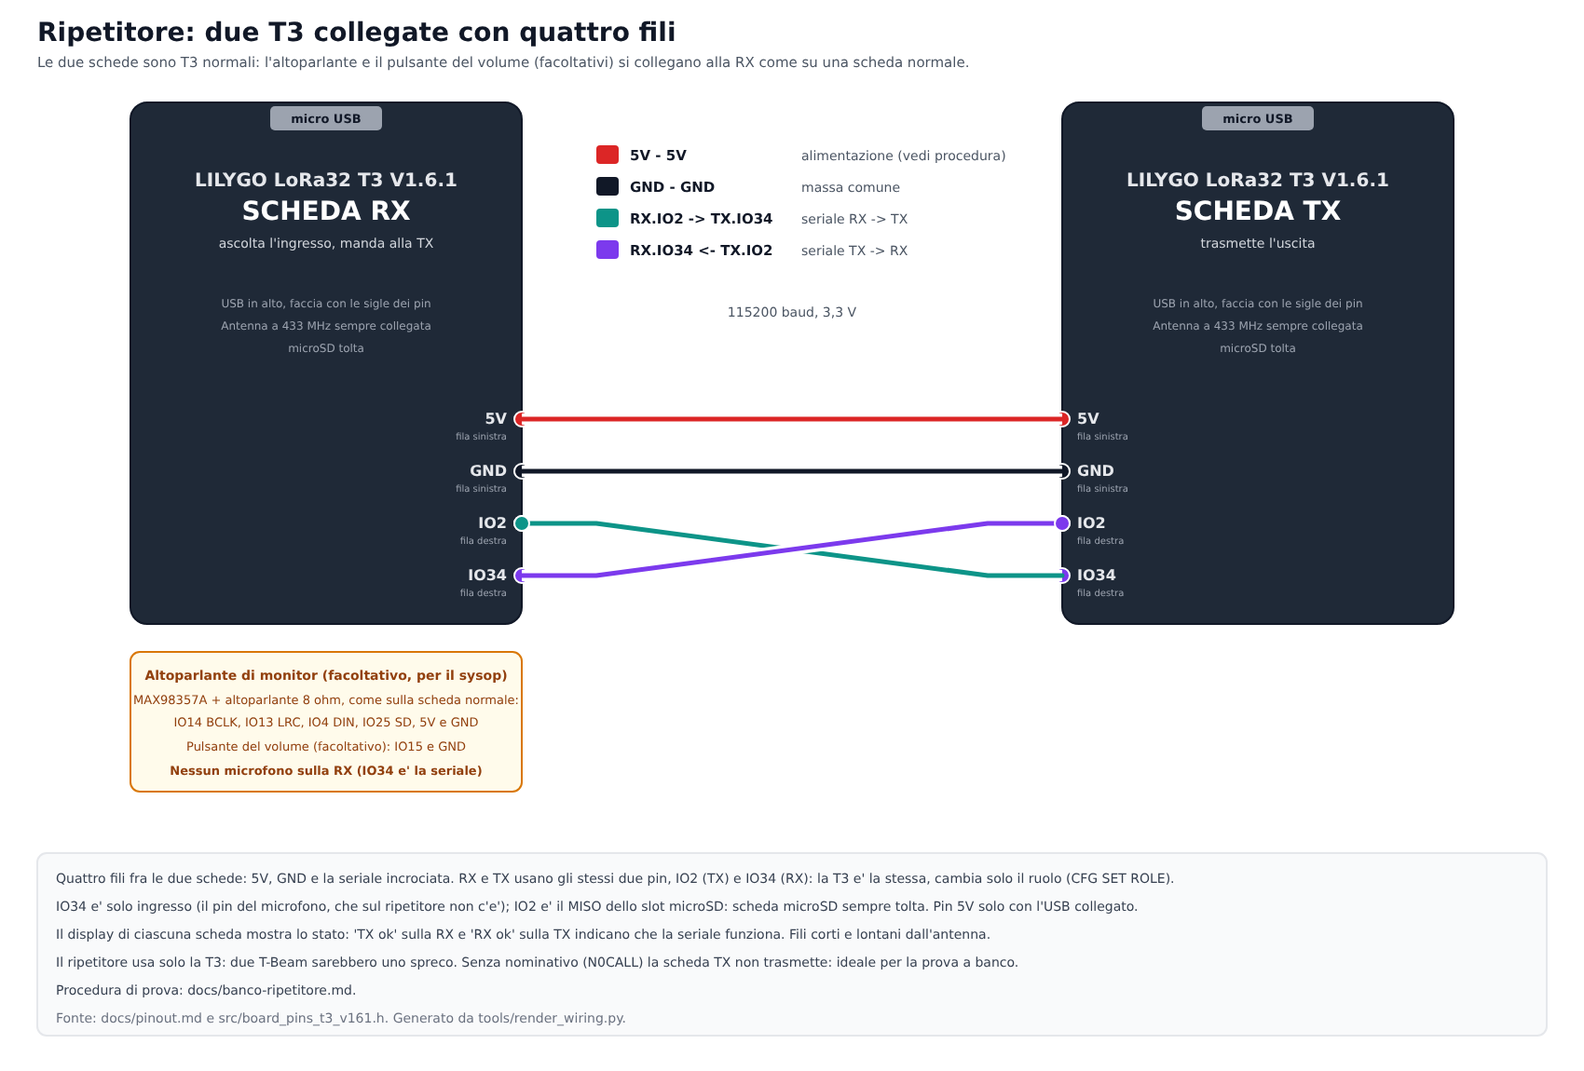
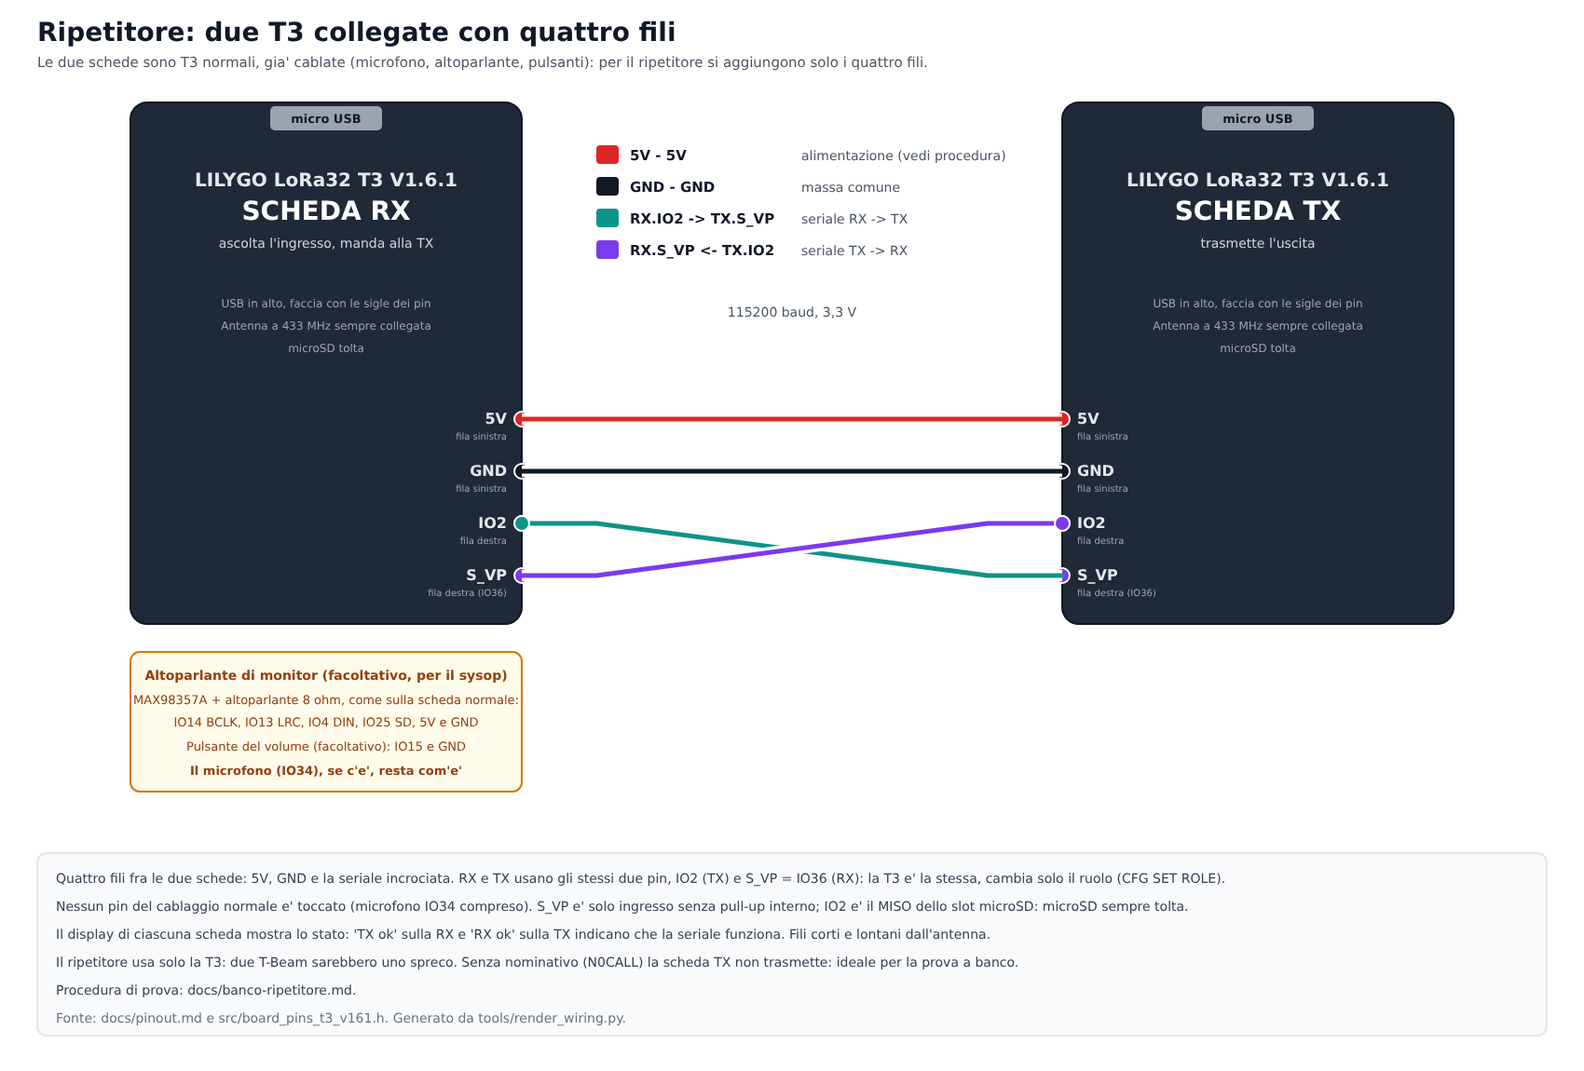
Ripetitore: seriale su S_VP (IO36) e IO2, nessun pin del cablaggio normale condiviso (microfono su IO34 incluso)
Claude-Session: https://claude.ai/code/session_01XeozYwmYoAwuvXXpMrm81B

diff --git a/tools/render_wiring.py b/tools/render_wiring.py
@@ -373,7 +373,7 @@ def draw_ripetitore():
     global els
     els = []
     header("Ripetitore: due T3 collegate con quattro fili",
-           "Le due schede sono T3 normali: l'altoparlante e il pulsante del volume (facoltativi) si collegano alla RX come su una scheda normale.")
+           "Le due schede sono T3 normali, gia' cablate (microfono, altoparlante, pulsanti): per il ripetitore si aggiungono solo i quattro fili.")
 
     def board(x0, title, role):
         rect(x0, 110, 420, 560, "#1f2937", "#111827", rx=18)
@@ -391,9 +391,9 @@ def draw_ripetitore():
     board(TX0, "SCHEDA TX", "trasmette l'uscita")
 
     # pin usati: i punti si disegnano sul bordo rivolto verso l'altra scheda; sulla scheda vera stanno sulle due file del connettore
-    rows = {"5V": 450, "GND": 506, "IO2": 562, "IO34": 618}
-    colors = {"5V": C["5v"], "GND": C["gnd"], "IO2": "#0d9488", "IO34": C["mic"]}
-    side = {"5V": "fila sinistra", "GND": "fila sinistra", "IO2": "fila destra", "IO34": "fila destra"}
+    rows = {"5V": 450, "GND": 506, "IO2": 562, "S_VP": 618}
+    colors = {"5V": C["5v"], "GND": C["gnd"], "IO2": "#0d9488", "S_VP": C["mic"]}
+    side = {"5V": "fila sinistra", "GND": "fila sinistra", "IO2": "fila destra", "S_VP": "fila destra (IO36)"}
     XA, XB = RX0 + 420, TX0          # bordo destro della RX, bordo sinistro della TX
     for name, y in rows.items():
         dot(XA, y, colors[name], 8)
@@ -406,9 +406,9 @@ def draw_ripetitore():
     # fili fra le due schede
     wire([(XA, rows["5V"]), (XB, rows["5V"])], C["5v"], 5)
     wire([(XA, rows["GND"]), (XB, rows["GND"])], C["gnd"], 5)
-    # seriale incrociata: TX (IO2) di una -> RX (IO34) dell'altra
-    wire([(XA, rows["IO2"]), (XA + 80, rows["IO2"]), (XB - 80, rows["IO34"]), (XB, rows["IO34"])], "#0d9488", 5)
-    wire([(XA, rows["IO34"]), (XA + 80, rows["IO34"]), (XB - 80, rows["IO2"]), (XB, rows["IO2"])], C["mic"], 5)
+    # seriale incrociata: TX (IO2) di una -> RX (S_VP) dell'altra
+    wire([(XA, rows["IO2"]), (XA + 80, rows["IO2"]), (XB - 80, rows["S_VP"]), (XB, rows["S_VP"])], "#0d9488", 5)
+    wire([(XA, rows["S_VP"]), (XA + 80, rows["S_VP"]), (XB - 80, rows["IO2"]), (XB, rows["IO2"])], C["mic"], 5)
     dot(XA, rows["IO2"], "#0d9488", 8)
     dot(XB, rows["IO2"], C["mic"], 8)
 
@@ -416,8 +416,8 @@ def draw_ripetitore():
     legend = [
         ("5V - 5V", C["5v"], "alimentazione (vedi procedura)"),
         ("GND - GND", C["gnd"], "massa comune"),
-        ("RX.IO2 -> TX.IO34", "#0d9488", "seriale RX -> TX"),
-        ("RX.IO34 <- TX.IO2", C["mic"], "seriale TX -> RX"),
+        ("RX.IO2 -> TX.S_VP", "#0d9488", "seriale RX -> TX"),
+        ("RX.S_VP <- TX.IO2", C["mic"], "seriale TX -> RX"),
     ]
     for i, (a, col, b) in enumerate(legend):
         y = 170 + i * 34
@@ -432,11 +432,11 @@ def draw_ripetitore():
     text(RX0 + 210, 756, "MAX98357A + altoparlante 8 ohm, come sulla scheda normale:", 13, "middle", "normal", "#92400e")
     text(RX0 + 210, 780, "IO14 BCLK, IO13 LRC, IO4 DIN, IO25 SD, 5V e GND", 13, "middle", "normal", "#92400e")
     text(RX0 + 210, 806, "Pulsante del volume (facoltativo): IO15 e GND", 13, "middle", "normal", "#92400e")
-    text(RX0 + 210, 832, "Nessun microfono sulla RX (IO34 e' la seriale)", 13, "middle", "bold", "#92400e")
+    text(RX0 + 210, 832, "Il microfono (IO34), se c'e', resta com'e'", 13, "middle", "bold", "#92400e")
 
     notes_panel([
-        "Quattro fili fra le due schede: 5V, GND e la seriale incrociata. RX e TX usano gli stessi due pin, IO2 (TX) e IO34 (RX): la T3 e' la stessa, cambia solo il ruolo (CFG SET ROLE).",
-        "IO34 e' solo ingresso (il pin del microfono, che sul ripetitore non c'e'); IO2 e' il MISO dello slot microSD: scheda microSD sempre tolta. Pin 5V solo con l'USB collegato.",
+        "Quattro fili fra le due schede: 5V, GND e la seriale incrociata. RX e TX usano gli stessi due pin, IO2 (TX) e S_VP = IO36 (RX): la T3 e' la stessa, cambia solo il ruolo (CFG SET ROLE).",
+        "Nessun pin del cablaggio normale e' toccato (microfono IO34 compreso). S_VP e' solo ingresso senza pull-up interno; IO2 e' il MISO dello slot microSD: microSD sempre tolta.",
         "Il display di ciascuna scheda mostra lo stato: 'TX ok' sulla RX e 'RX ok' sulla TX indicano che la seriale funziona. Fili corti e lontani dall'antenna.",
         "Il ripetitore usa solo la T3: due T-Beam sarebbero uno spreco. Senza nominativo (N0CALL) la scheda TX non trasmette: ideale per la prova a banco.",
         "Procedura di prova: docs/banco-ripetitore.md.",

diff --git a/src/board_pins_t3_v161.h b/src/board_pins_t3_v161.h
@@ -36,12 +36,12 @@ constexpr int kMicData = 34;     // INMP441 SD -> ESP32 (GPIO34: solo ingresso, 
 constexpr int kAmpData = 4;      // ESP32 -> MAX98357A DIN
 constexpr int kAmpShutdown = 25; // MAX98357A SD (alto = acceso). Condiviso col LED di bordo.
 
-// --- Ripetitore (due T3 collegate fra loro): la seriale fra RX e TX usa due pin che il cablaggio normale (microfono, altoparlante,
-// pulsanti) non tocca, cosi' l'altoparlante di monitor e il pulsante del volume si collegano come su una scheda normale e fra le due
-// schede bastano 4 fili: 5 V, GND, e la seriale incrociata (TX di una = GPIO2 -> RX dell'altra = GPIO34 e viceversa).
-// GPIO34 e' il pin dati del microfono (solo ingresso, va bene per una RX: sulle schede del ripetitore il microfono non c'e'); GPIO2 e' il
-// MISO dello slot microSD (da lasciare vuoto) e secondo docs/pinout.md e' libero. Entrambi escono sul connettore. DA VERIFICARE sul banco. ---
-constexpr int kLinkRx = kMicData;
+// --- Ripetitore (due T3 normali, gia' cablate, collegate fra loro): la seriale fra RX e TX usa due pin che il cablaggio normale
+// (microfono IO34, altoparlante IO14/IO13/IO4/IO25, pulsanti IO0 e IO15, batteria IO35, radio, OLED) non tocca MAI, anche se il microfono resta
+// montato. Fra le due schede bastano 4 fili: 5 V, GND, e la seriale incrociata (TX di una = GPIO2 -> RX dell'altra = GPIO36 e viceversa).
+// GPIO36 e' il pin S_VP del connettore (solo ingresso, senza pull-up interno, non collegato a nulla sulla scheda); GPIO2 e' il MISO
+// dello slot microSD (da lasciare vuoto) e secondo docs/pinout.md e' libero. DA VERIFICARE sul banco. ---
+constexpr int kLinkRx = 36;
 constexpr int kLinkTx = kSdMiso;
 
 // --- PTT: pulsante esterno tra GPIO0 e massa (la scheda ha solo RST) ---

diff --git a/tests/test_pins.cpp b/tests/test_pins.cpp
@@ -45,7 +45,7 @@ static void checkCommon(const Board& b) {
 // Seriale fra le due T3 del ripetitore: nessun pin del cablaggio normale (I2S, microfono tranne il suo pin dati, pulsanti, LED), RX su un
 // ingresso, TX su una uscita, niente GPIO12 di avvio, niente radio e OLED.
 static void checkLink(int rx, int tx, const std::vector<int>& used, const std::vector<int>& normal) {
-  CHECK(rx != tx && tx < 34 && tx != 12 && rx != 12);
+  CHECK(rx != tx && tx < 34 && tx != 12 && rx != 12 && rx >= 34);  // RX su un ingresso senza altre funzioni, TX su un'uscita
   for (int u : used) CHECK(rx != u && tx != u);
   for (int n : normal) CHECK(tx != n && rx != n);
 }
@@ -65,10 +65,10 @@ int main() {
     CHECK(kI2sBclk == kSdSclk && kI2sWs == kSdCs && kVolume == kSdMosi);
     CHECK(kLed == kAmpShutdown);  // LED condiviso con lo shutdown dell'amplificatore
     CHECK(kPtt == 0 && kPttHasInternalPullup);
-    // Seriale del ripetitore: GPIO34 (RX, il pin del microfono: sul ripetitore non c'e') e GPIO2 (TX, MISO dello slot microSD). Altoparlante,
+    // Seriale del ripetitore: GPIO36 (RX, S_VP) e GPIO2 (TX, MISO dello slot microSD). Il microfono (IO34), l'altoparlante,
     // pulsante del volume e PTT restano quelli della scheda normale e non si toccano.
-    CHECK(kLinkRx == 34 && kLinkTx == 2 && kLinkRx == kMicData && kLinkTx == kSdMiso);
-    checkLink(kLinkRx, kLinkTx, b.used, {kI2sBclk, kI2sWs, kAmpData, kAmpShutdown, kPtt, kVolume});
+    CHECK(kLinkRx == 36 && kLinkTx == 2 && kLinkTx == kSdMiso);
+    checkLink(kLinkRx, kLinkTx, b.used, {kI2sBclk, kI2sWs, kMicData, kAmpData, kAmpShutdown, kPtt, kVolume, kBatteryAdc, kLed});
   }
 
   // ---- T-Beam V1.2 ----

diff --git a/src/repeater_node.cpp b/src/repeater_node.cpp
@@ -83,7 +83,7 @@ void sendFrame(uint8_t type, const uint8_t* data, size_t len) {
 [[noreturn]] void runRx(const lcr::Settings& settings, UiNotifier& ui, CfgHandler handler, AudioIo* audio, lcr::ICodec* codec) {
   RadioLora radio;
   if (!radio.begin(settings)) stopWithError(ui, "radio", radio.lastError());
-  // La seriale verso la TX usa GPIO34 (RX) e GPIO2 (TX), fuori dal cablaggio normale: l'altoparlante (I2S su 14 e 13) e il pulsante del
+  // La seriale verso la TX usa GPIO36 (RX, S_VP) e GPIO2 (TX), fuori dal cablaggio normale (il microfono resta su IO34): l'altoparlante (I2S su 14 e 13) e il pulsante del
   // volume si collegano come su una scheda normale (board_pins_t3_v161.h).
   const bool monitor = audio != nullptr && codec != nullptr;
   Serial2.begin(kLinkBaud, SERIAL_8N1, pins::kLinkRx, pins::kLinkTx);

diff --git a/docs/firmware.md b/docs/firmware.md
@@ -205,7 +205,7 @@ Se il telefono dice "nessun Internet" e la pagina non si apre: scegli di **resta
 
 Studio e decisioni: [studio-ripetitore.md](studio-ripetitore.md). **Scritto, non ancora provato sulle schede** (compila solo se Actions è verde; la logica è provata sul PC).
 
-**Il ripetitore** è fatto da **due T3 uguali** (**senza microfono**; la RX può avere un altoparlante di monitor, vedi sotto): la scheda **RX** ascolta la frequenza di ingresso e manda i pacchetti da ripetere alla scheda **TX**, che li trasmette sulla frequenza di uscita. Ripete il **modo del profilo scelto** (di base lo Standard, Codec2 1200) e i **messaggi di testo** (modo 7, dall'11/11/2026: un pacchetto solo, la seconda copia del mittente non si ripete) e aggiunge ai pacchetti il flag `RELAYED`. Un testo non fa parte del turno vocale in corso e non ne cambia la durata. Ogni scheda ha la **sua antenna**: la separazione fra le due antenne (distanza, filtri, cavità) è a cura dell'operatore.
+**Il ripetitore** è fatto da **due T3 uguali, normali e già cablate** (microfono, altoparlante e pulsanti restano come sono: la RX può avere l'altoparlante di monitor, vedi sotto): la scheda **RX** ascolta la frequenza di ingresso e manda i pacchetti da ripetere alla scheda **TX**, che li trasmette sulla frequenza di uscita. Ripete il **modo del profilo scelto** (di base lo Standard, Codec2 1200) e i **messaggi di testo** (modo 7, dall'11/11/2026: un pacchetto solo, la seconda copia del mittente non si ripete) e aggiunge ai pacchetti il flag `RELAYED`. Un testo non fa parte del turno vocale in corso e non ne cambia la durata. Ogni scheda ha la **sua antenna**: la separazione fra le due antenne (distanza, filtri, cavità) è a cura dell'operatore.
 
 **Ruolo dalla pagina di configurazione (12/11/2026):** il ruolo (stazione normale, scheda RX, scheda TX) si sceglie anche dalle pagine web (la pagina interna della scheda e il sito): *Ruolo della scheda*; con la RX compare il monitor audio, con la TX la frequenza di uscita e l'intervallo dell'identificativo. Salvando, la pagina manda gli stessi comandi `CFG SET ROLE`, `FREQOUT`, `MONITOR`, `IDINT` descritti sotto, e rilegge il ruolo dalla scheda. Per tornare scheda normale basta scegliere *Stazione normale* (dalla scheda in ruolo da ripetitore la pagina interna non è raggiungibile dal menu: serve la seriale, `CFG SET ROLE OFF`, oppure il sito con il cavo USB).
 
@@ -226,17 +226,17 @@ CFG REBOOT
 |---|---|---|
 | alimentazione | 5V | 5V |
 | massa | GND | GND |
-| seriale | **IO2** (TX) | **IO34** (RX) |
-| seriale | **IO34** (RX) | **IO2** (TX) |
+| seriale | **IO2** (TX) | **S_VP = IO36** (RX) |
+| seriale | **S_VP = IO36** (RX) | **IO2** (TX) |
 
-Sono pin che il cablaggio normale (altoparlante su IO14, IO13, IO4 e IO25, pulsante volume su IO15, PTT su IO0, vedi [pinout.md](pinout.md) e le immagini dei collegamenti) **non usa**: l'altoparlante di monitor e il pulsante del volume si collegano **come su una scheda normale**, senza spostare niente. IO34 è il pin dati del microfono (solo ingresso): sulle schede del ripetitore il microfono non c'è. IO2 è il MISO dello slot microSD, che va lasciato **vuoto** (sulla T3 anche IO13, IO14 e IO15 sono pin dello slot). L'alimentazione: **un solo alimentatore da 5 V** per le due schede (il pin 5V esce solo con l'USB collegato, vedi [pinout.md](pinout.md)): non collegare fra loro i 5V di due schede alimentate ognuna dal proprio USB. **Da verificare sul banco** (pin e alimentazione): procedura passo passo in [banco-ripetitore.md](banco-ripetitore.md), schema in [images/collegamenti-ripetitore.png](images/collegamenti-ripetitore.png).
+Le due schede sono **T3 normali già cablate**: microfono (IO34), altoparlante (IO14, IO13, IO4, IO25), pulsanti (IO0 e IO15) restano **dove sono**, microfono compreso, e si possono usare come su una scheda normale. La seriale usa due pin che quel cablaggio non tocca: **S_VP (IO36)**, solo ingresso, non collegato a nulla sulla scheda (senza pull-up interno: se in prova la linea è disturbata, un resistore da 10 kΩ fra S_VP e 3,3 V la tiene alta), e **IO2**, il MISO dello slot microSD, che va lasciato **vuoto** (sulla T3 anche IO13, IO14 e IO15 sono pin dello slot). L'alimentazione: **un solo alimentatore da 5 V** per le due schede (il pin 5V esce solo con l'USB collegato, vedi [pinout.md](pinout.md)): non collegare fra loro i 5V di due schede alimentate ognuna dal proprio USB. **Da verificare sul banco** (pin e alimentazione): procedura passo passo in [banco-ripetitore.md](banco-ripetitore.md), schema in [images/collegamenti-ripetitore.png](images/collegamenti-ripetitore.png).
 
 **Il ripetitore usa solo la T3.** Due T-Beam sarebbero uno spreco: GPS, PMU con batteria e schermo di una scheda pensata per il portatile non servono a un ripetitore fisso, e la T3 costa meno. Il firmware rifiuta `CFG SET ROLE RPTRX/RPTTX` sulla T-Beam e le pagine di configurazione lo dicono.
 Il display di ciascuna scheda mostra lo stato (pacchetti ricevuti, ripetuti, scartati, coda della TX, collegamento). La scheda TX trasmette ogni pacchetto della coda con la pausa minima di 80 ms. Per uscire dal ruolo: `CFG SET ROLE OFF` e `CFG REBOOT`.
 
 **Monitor audio sulla scheda RX (11/11/2026):** con un **altoparlante** (amplificatore MAX98357A come sulle schede normali) la scheda RX fa ascoltare la voce che riceve sulla frequenza di ingresso, per sorvegliare il traffico. Si accende con `CFG SET MONITOR ON` (e `CFG REBOOT`; `CFG GET MONITOR` lo legge; di base è spento). Si ascolta solo la voce del modo del profilo (non il testo né le prove), al ritmo normale e con la parità che recupera i pacchetti persi, come una scheda normale; nel profilo Messaggio la voce parte a messaggio concluso. Il monitor non cambia cosa viene ripetuto e non trasmette mai. Volume iniziale: `CFG SET VOLUME`; il pulsante volume (GPIO15) lo alza a scheda accesa. Sul display, a voce in corso, compare "RX" con il nominativo di chi parla.
 
-**Altoparlante di monitor (12/11/2026):** per il sysop che va alla postazione: ascolta il traffico dalla scheda RX e guarda i display di RX e TX. Si collega alla RX **come su una scheda normale** (MAX98357A su IO14, IO13, IO4 e IO25, con il pulsante del volume su IO15: schema in [pinout.md](pinout.md)), perché la seriale fra le due schede usa altri pin. Sulla RX non va montato il microfono.
+**Altoparlante di monitor (12/11/2026):** per il sysop che va alla postazione: ascolta il traffico dalla scheda RX e guarda i display di RX e TX. Si collega alla RX **come su una scheda normale** (MAX98357A su IO14, IO13, IO4 e IO25, con il pulsante del volume su IO15: schema in [pinout.md](pinout.md)), perché la seriale fra le due schede usa altri pin. Il microfono, se c'è, resta montato e inutilizzato.
 
 **Messaggi (11/11/2026):** la scheda TX ascolta il profilo Messaggio sulla frequenza di uscita quando è libera, tiene fino a 3 messaggi (massimo 15 s di voce) e li ritrasmette dopo 20 s di silenzio vocale, con la voce sempre prioritaria; vedi [studio-ripetitore.md](studio-ripetitore.md) ("Il regista della TX"). Logica provata sul PC, **non ancora sulla scheda**.
 

diff --git a/docs/banco-ripetitore.md b/docs/banco-ripetitore.md
@@ -29,13 +29,13 @@ Il nominativo resta **N0CALL** (valore di fabbrica) su entrambe: così la TX non
 Sul display, per 1,5 s: "RIPETITORE / scheda RX" (o TX).
 
 ## Fase 1: i quattro fili e la seriale
-**Spegni tutto, poi** collega fra le due schede (schema in alto): GND-GND, **RX.IO2 → TX.IO34** e **TX.IO2 → RX.IO34** (la seriale è incrociata).
+**Spegni tutto, poi** collega fra le due schede (schema in alto): GND-GND, **RX.IO2 → TX.S_VP (IO36)** e **TX.IO2 → RX.S_VP (IO36)** (la seriale è incrociata).
 
 **Alimentazione, la parte che non ho potuto verificare:** lo schema della T3 dice solo che il pin `5V` del connettore esce quando c'è l'USB; non so se accetta anche un ingresso, né se due 5V collegati fra loro con due USB diversi creino problemi. **Per la prima prova usa tre fili** (GND e le due della seriale) con **un cavo USB per scheda** e **lascia scollegato il filo dei 5V**. Il filo dei 5V, con un solo alimentatore, si aggiunge dopo, quando hai controllato lo schema dell'alimentazione (o con un multimetro sul pin 5V) e mi dici com'è andata.
 
 | Cosa guardare | Atteso | Se no |
 |---|---|---|
-| Display RX, ultima riga | `TX ok coda 0` entro 2-3 s | `TX NON RISPONDE`: fili IO2/IO34 invertiti, filo staccato, masse non comuni |
+| Display RX, ultima riga | `TX ok coda 0` entro 2-3 s | `TX NON RISPONDE`: fili IO2/S_VP invertiti, filo staccato, masse non comuni |
 | Display TX, ultima riga | `N0CALL no TX, RX ok` | `... RX NO`: stessa lista; controlla anche che la TX sia davvero in ruolo `rpttx` |
 | Display RX, riga 1-2 | `RIPETITORE  RX`, `In 433.900 MHz std` | frequenza o ruolo sbagliati: `CFG GET` |
 | Display TX, riga 1-2 | `RIPETITORE  TX`, `Out 434.400 MHz std` | idem |
@@ -49,7 +49,7 @@ Sul display, per 1,5 s: "RIPETITORE / scheda RX" (o TX).
 Con le due schede collegate e funzionanti, collega il cavo USB a una scheda e chiedi `CFG GET`: deve rispondere con `role=rptrx` (o `rpttx`) e le frequenze impostate, e la seriale fra le schede **non deve perdere il collegamento** (display `ok`). Poi `CFG SET IDINT 1` sulla TX, `CFG GET IDINT` deve rispondere `CFG IDINT=1` (non serve riavviare per questa prova).
 
 ## Fase 3 (facoltativa): altoparlante di monitor sulla RX
-1. Collega MAX98357A e altoparlante **come su una scheda normale** (schema [collegamenti-t3.png](images/collegamenti-t3.png): IO14 BCLK, IO13 LRC, IO4 DIN, IO25 SD, 5V e GND), con il pulsante del volume su IO15 se lo vuoi. **Nessun microfono.**
+1. Collega MAX98357A e altoparlante **come su una scheda normale** (schema [collegamenti-t3.png](images/collegamenti-t3.png): IO14 BCLK, IO13 LRC, IO4 DIN, IO25 SD, 5V e GND), con il pulsante del volume su IO15 se lo vuoi. Il microfono, se c'è, resta com'è.
 2. Sulla RX: `CFG SET MONITOR ON`, `CFG REBOOT`.
 3. Atteso: all'avvio "MONITOR / altoparlante"; sul display RX la riga 4 diventa `Scarti 0  Vol 5/10` (il volume parte da `CFG SET VOLUME`); la seriale fra le schede continua a dire `TX ok` (era il punto del cambio di pin). Il pulsante volume sposta il volume e fa un bip.
 4. **Se la seriale cade quando accendi il monitor** o l'altoparlante soffia sempre: lo schema dei pin ha un conflitto: segnalalo (quale pin, quale scheda).
@@ -62,7 +62,7 @@ Serve una **terza T3 normale** con un nominativo vero, `CFG SET POWER 2` (la pot
 4. Con il monitor acceso la voce si sente dall'altoparlante.
 
 ## Cosa mandarmi
-Per ogni fase che hai fatto: una foto dei due display (o le righe lette), l'esito `ok` o `NON RISPONDE`, e le righe della seriale USB dell'avvio (due righe per scheda). Se qualcosa non va, dimmi **quale pin e quale scheda**: i pin sono in `src/board_pins_t3_v161.h` (`kLinkRx`, `kLinkTx`) e si cambiano in un minuto.
+Per ogni fase che hai fatto: una foto dei due display (o le righe lette), l'esito `ok` o `NON RISPONDE`, e le righe della seriale USB dell'avvio (due righe per scheda). Se qualcosa non va, dimmi **quale pin e quale scheda**: i pin sono in `src/board_pins_t3_v161.h` (`kLinkRx`, `kLinkTx`) e si cambiano in un minuto. Se la linea sembra disturbata (display che dice `ok` e poi `NON RISPONDE`), prova un resistore da 10 kΩ fra S_VP e 3,3 V sulle due schede: l'ingresso S_VP non ha il pull-up interno.
 
 ## Dopo la prova
 `CFG SET ROLE OFF` e `CFG REBOOT` su ogni scheda per tornare stazioni normali. Il primo test **in aria** con un nominativo vero (identificativo periodico, risposte del sysop, ritrasmissione dei messaggi) è un passo successivo e si fa con carico fittizio e potenza minima.

diff --git a/docs/studio-ripetitore.md b/docs/studio-ripetitore.md
@@ -230,5 +230,5 @@ La scheda TX trasmette **ogni 1-10 minuti** (di base 10; `CFG SET IDINT n` o cam
 ### Collegamento e schede (12/11/2026)
 
 - **Solo T3.** Il ripetitore usa due T3: due T-Beam sarebbero uno spreco (GPS, PMU con batteria e uno schermo pensati per il portatile non servono a un ripetitore fisso). Il firmware rifiuta il ruolo del ripetitore sulla T-Beam.
-- **Quattro fili** fra le due schede: 5V, GND, seriale RX e seriale TX (RX = IO34, TX = IO2 su entrambe, incrociati). Sono pin che il cablaggio normale non usa, quindi **l'altoparlante di monitor** (per il sysop in postazione, insieme ai display di RX e TX) e il **pulsante del volume** restano come su una scheda normale: l'obiettivo è unire due dispositivi esistenti senza rifare i cablaggi. Tabella e avvertenze in [firmware.md](firmware.md) e [pinout.md](pinout.md).
+- **Quattro fili** fra le due schede: 5V, GND, seriale RX e seriale TX (RX = S_VP/IO36, TX = IO2 su entrambe, incrociati). Sono pin che **nessun cablaggio normale usa** (il microfono resta su IO34, anche se non serve), quindi **l'altoparlante di monitor** (per il sysop in postazione, insieme ai display di RX e TX) e il **pulsante del volume** restano come su una scheda normale: l'obiettivo è unire due dispositivi esistenti senza rifare i cablaggi. Tabella e avvertenze in [firmware.md](firmware.md) e [pinout.md](pinout.md).
 

diff --git a/docs/pinout.md b/docs/pinout.md
@@ -75,12 +75,12 @@ Perché così:
 
 ## Ripetitore: due T3 collegate fra loro (12/11/2026)
 
-Il ripetitore unisce **due T3** già cablate come stazioni normali (microfono non necessario sulla RX; altoparlante di monitor facoltativo, pulsante volume invariato) con **quattro fili**: 5V, GND e la seriale incrociata. La seriale usa due pin che il cablaggio normale non tocca:
+Il ripetitore unisce **due T3** già cablate come stazioni normali (microfono, altoparlante e pulsanti restano come sono) con **quattro fili**: 5V, GND e la seriale incrociata. Il microfono resta dov'è (IO34). La seriale usa due pin che nessun cablaggio normale tocca:
 
 | Segnale | GPIO | Collegamento |
 |---|---|---|
-| Seriale RX | 34 | TX (IO2) dell'altra scheda (GPIO34 è solo ingresso: va bene, è il pin del microfono che qui non c'è) |
-| Seriale TX | 2 | RX (IO34) dell'altra scheda (MISO dello slot microSD: lasciarlo vuoto) |
+| Seriale RX | 36 (`S_VP`) | TX (IO2) dell'altra scheda (GPIO36 è solo ingresso, senza pull-up interno e non collegato a nulla sulla scheda) |
+| Seriale TX | 2 | RX (S_VP, IO36) dell'altra scheda (MISO dello slot microSD: lasciarlo vuoto) |
 
 Due T-Beam sarebbero uno spreco (GPS, PMU e batteria non servono a un ripetitore fisso): il ripetitore è solo T3. ![Collegamenti del ripetitore](images/collegamenti-ripetitore.png)
 
